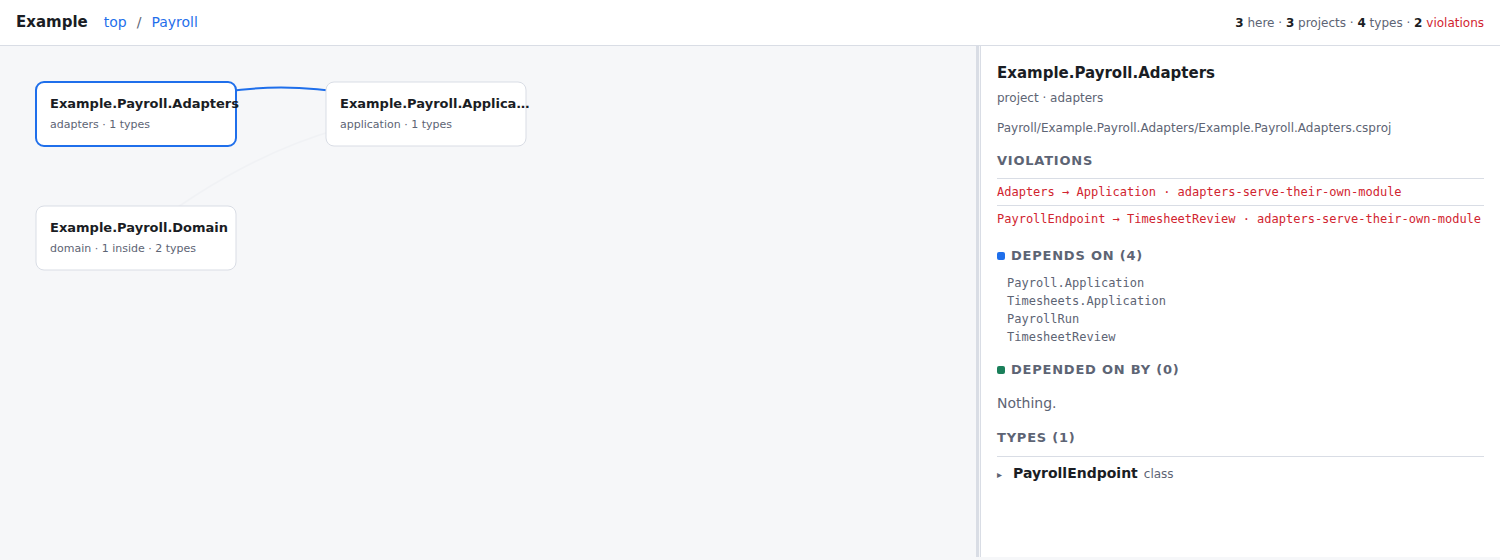
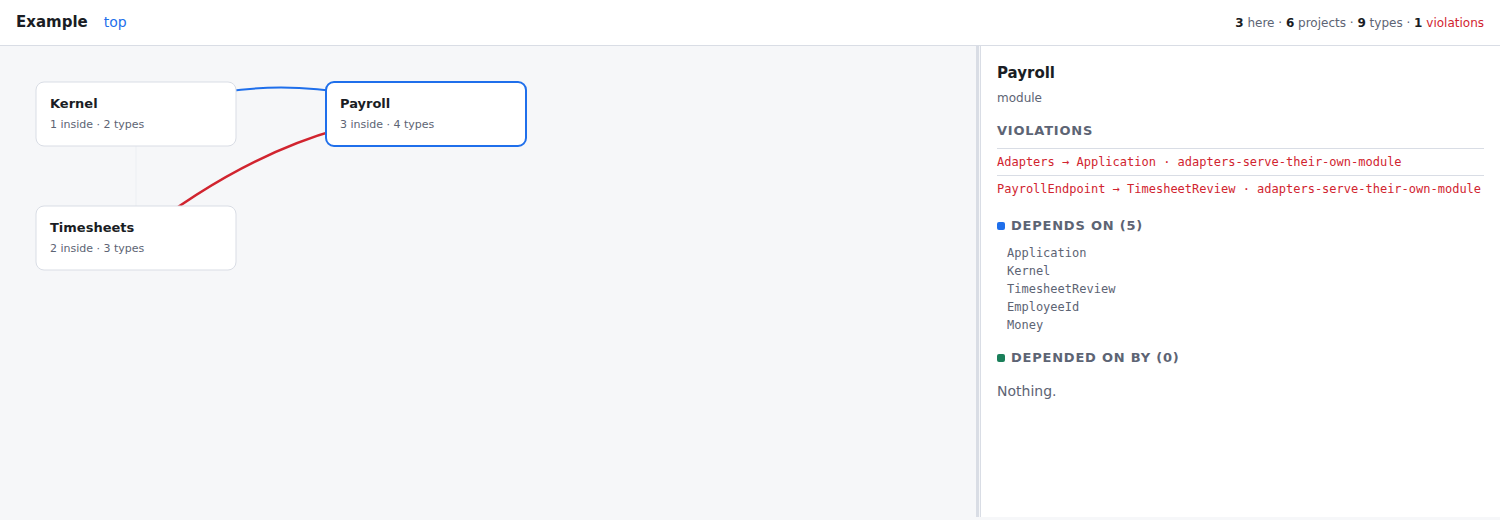
It read a week-old build and said nothing
Reported from a run where the map described code that no longer existed: a
class deleted days earlier was present, two classes added since were
missing, and a type was shown declaring members it no longer declares.

The cause was an accident treated as a choice. A repository holds the same
assembly once per configuration and again inside every project that
references it — on one repository, fifty-three copies of five assemblies.
Whichever a directory walk met first won, and Release from last week beat
Debug from an hour ago.

The newest copy of each is now read, and the run says how many older ones
were passed over. Same repository, unchanged: 438 types became 440,
inheritance 48 became 52, the deleted class is gone and the two new ones
are there — without anyone rebuilding anything by hand.

**Worse than the wrong metadata was the source shown beside it.** Line
numbers come from the PDB of a build; the text comes from disk now. A file
edited since that build puts a stale declaration next to a current body in
one panel, and nothing said which was which. Source is no longer shown for
such a file, and the run reports how many types that affects. No text is
better than contradictory text — the same principle already written down
for metrics, applied where it was being violated.

Also: a crossing counted twice. An adapter reaching into another module is
recorded as an edge between the projects and again between the two types
[…]

diff --git a/viewer/index.html b/viewer/index.html
@@ -365,7 +365,10 @@ function renderCrumbs() {
 function renderCounts(nodes, current) {
   const scope = current ? [current] : MODEL.nodes;
   const within = new Set(scope.flatMap(n => idsUnder(n)));
-  const bad = MODEL.edges.filter(e => e.violates && within.has(e.from));
+  // Crossings, not references. One adapter reaching into another module is
+  // recorded twice — once between the projects, once between the types that
+  // make the reference — and it is still one broken boundary.
+  const bad = crossings(MODEL.edges.filter(e => e.violates && within.has(e.from)));
 
   // Leaves are not projects: below the project level they are namespaces, and
   // calling thirty namespaces "projects" is simply wrong.
@@ -377,6 +380,25 @@ function renderCounts(nodes, current) {
     (projects ? `<b>${projects}</b> projects · ` : '') +
     `<b>${types}</b> types · ` +
     (bad.length ? `<span class="bad"><b>${bad.length}</b> violations</span>` : `<span>no violations</span>`);
+}
+
+// A violation is a pair of containers and the rule between them. Several
+// references may realise the same crossing; they are one thing to fix.
+function crossings(edges) {
+  const owner = new Map();
+  const index = node => {
+    for (const t of node.types || []) owner.set(t.id, node.id);
+    for (const c of node.children || []) index(c);
+  };
+  MODEL.nodes.forEach(index);
+
+  const seen = new Set();
+  for (const e of edges) {
+    const a = owner.get(e.from) || e.from;
+    const b = owner.get(e.to) || e.to;
+    seen.add(`${a}\u0000${b}\u0000${e.violates}`);
+  }
+  return [...seen];
 }
 
 function count(nodes, fits) {
@@ -403,8 +425,18 @@ function select(n) {
   if (n.project) html += `<div class="kind">${esc(n.project)}</div>`;
 
   if (bad.length) {
+    const grouped = new Map();
+    for (const e of bad) {
+      const key = `${e.violates}`;
+      if (!grouped.has(key)) grouped.set(key, []);
+      grouped.get(key).push(e);
+    }
     html += `<h2>Violations</h2>`;
-    for (const e of bad) html += `<div class="viol">${esc(short(e.from))} → ${esc(short(e.to))} · ${esc(e.violates)}</div>`;
+    for (const [rule, list] of grouped) {
+      for (const e of list) {
+        html += `<div class="viol">${esc(short(e.from))} → ${esc(short(e.to))} · ${esc(rule)}</div>`;
+      }
+    }
   }
 
   const into = [...new Map(

diff --git a/src/ArchViewer.Extract/AssemblyFacts.cs b/src/ArchViewer.Extract/AssemblyFacts.cs
@@ -30,15 +30,26 @@ public sealed class AssemblyFacts : IDisposable
     public IReadOnlyCollection<string> Known => _assemblies.Keys;
 
     /// <summary>
+    /// How many older copies of the wanted assemblies were passed over.
+    /// </summary>
+    public int PassedOver { get; init; }
+
+    /// <summary>
+    /// When the oldest assembly actually read was written. Source newer than
+    /// this describes code the metadata has never seen.
+    /// </summary>
+    public DateTime Built { get; init; }
+
+    /// <summary>
     /// Finds built assemblies under the repository and opens them for reading.
     /// </summary>
     public static AssemblyFacts Load(string root, IReadOnlyList<string> wanted)
     {
-        var binaries = FindBinaries(root, wanted, out var everything);
+        var binaries = FindBinaries(root, wanted, out var everything, out var passedOver);
 
         if (binaries.Count == 0)
         {
-            return new AssemblyFacts(root, null);
+            return new AssemblyFacts(root, null) { PassedOver = passedOver };
         }
 
         var runtime = Directory.EnumerateFiles(
@@ -49,7 +60,14 @@ public sealed class AssemblyFacts : IDisposable
         // which is often a package rather than a project of this repository.
         var resolver = new PathAssemblyResolver(everything.Concat(runtime));
         var context = new MetadataLoadContext(resolver);
-        var facts = new AssemblyFacts(root, context);
+        var facts = new AssemblyFacts(root, context)
+        {
+            PassedOver = passedOver,
+            Built = binaries.Values
+                .Select(path => File.GetLastWriteTimeUtc(path))
+                .DefaultIfEmpty(DateTime.MinValue)
+                .Min(),
+        };
 
         foreach (var (name, path) in binaries)
         {
@@ -161,7 +179,7 @@ public sealed class AssemblyFacts : IDisposable
             {
                 var location = source?.Locate(type);
                 var fragment = location is { } at && source is not null
-                    ? source.Fragment(at.File, at.First, at.Last, type.Name)
+                    ? source.Fragment(at.File, at.First, at.Last, type.Name, Built)
                     : null;
 
                 types.Add(new TypeNode
@@ -508,32 +526,62 @@ public sealed class AssemblyFacts : IDisposable
         return tick < 0 ? name : name[..tick];
     }
 
+    /// <summary>
+    /// Assemblies to read, one path per name.
+    /// A repository holds the same assembly many times over — one per
+    /// configuration, plus a copy in every project that references it — and
+    /// which one is walked first is an accident of the file system. The newest
+    /// is taken, and how many were passed over is reported, because silently
+    /// reading a week-old build and saying nothing is how a map comes to
+    /// disagree with the code it claims to describe.
+    /// </summary>
     private static Dictionary<string, string> FindBinaries(
         string root,
         IReadOnlyList<string> wanted,
-        out IReadOnlyList<string> everything)
+        out IReadOnlyList<string> everything,
+        out int copies)
     {
         var want = new HashSet<string>(wanted, StringComparer.Ordinal);
-        var found = new Dictionary<string, string>(StringComparer.Ordinal);
-        var all = new Dictionary<string, string>(StringComparer.Ordinal);
+        var newest = new Dictionary<string, (string Path, DateTime Written)>(StringComparer.Ordinal);
+        var all = new Dictionary<string, (string Path, DateTime Written)>(StringComparer.Ordinal);
+        var seen = 0;
 
         foreach (var dll in Directory.EnumerateFiles(root, "*.dll", SearchOption.AllDirectories))
         {
             var name = Path.GetFileNameWithoutExtension(dll);
 
-            if (!all.ContainsKey(name))
+            DateTime written;
+
+            try
             {
-                all[name] = dll;
+                written = File.GetLastWriteTimeUtc(dll);
+            }
+            catch (IOException)
+            {
+                continue;
             }
 
-            if (want.Contains(name) && !found.ContainsKey(name))
+            if (!all.TryGetValue(name, out var best) || written > best.Written)
             {
-                found[name] = dll;
+                all[name] = (dll, written);
+            }
+
+            if (!want.Contains(name))
+            {
+                continue;
+            }
+
+            seen++;
+
+            if (!newest.TryGetValue(name, out var current) || written > current.Written)
+            {
+                newest[name] = (dll, written);
             }
         }
 
-        everything = all.Values.ToList();
-        return found;
+        copies = seen - newest.Count;
+        everything = all.Values.Select(x => x.Path).ToList();
+        return newest.ToDictionary(pair => pair.Key, pair => pair.Value.Path, StringComparer.Ordinal);
     }
 
     /// <summary>Releases the reading context.</summary>
@@ -639,6 +687,7 @@ internal sealed class SourceIndex : IDisposable
         int first,
         int last,
         string typeName,
+        DateTime built,
         int limit = 400)
     {
         var path = Path.Combine(_root, relativeFile);
@@ -652,6 +701,16 @@ internal sealed class SourceIndex : IDisposable
 
         try
         {
+            // Lines come from the PDB of a build; the text comes from disk
+            // now. A file edited since that build describes something the
+            // metadata has never seen, and showing the two side by side puts
+            // a week-old declaration next to today's body. No text is better
+            // than contradictory text.
+            if (built != DateTime.MinValue && File.GetLastWriteTimeUtc(path) > built)
+            {
+                return null;
+            }
+
             lines = File.ReadAllLines(path);
         }
         catch (IOException)

diff --git a/src/ArchViewer.Extract/Program.cs b/src/ArchViewer.Extract/Program.cs
@@ -62,11 +62,16 @@ public static class Program
         File.WriteAllText(modelPath, json);
         File.WriteAllText(outPath, Page(json));
 
-        Report(model, projects.Count, facts.Known.Count, outPath);
+        Report(model, projects.Count, facts.Known.Count, outPath, facts);
         return 0;
     }
 
-    private static void Report(Model model, int projects, int assemblies, string outPath)
+    private static void Report(
+        Model model,
+        int projects,
+        int assemblies,
+        string outPath,
+        AssemblyFacts facts)
     {
         var violations = model.Edges.Count(e => e.Violates is not null);
         var types = Count(model.Nodes);
@@ -77,11 +82,38 @@ public static class Program
         Console.WriteLine($"edges      {model.Edges.Count}, {violations} violating");
         Console.WriteLine($"written    {outPath}");
 
+        if (facts.PassedOver > 0)
+        {
+            Console.WriteLine(
+                $"           {facts.PassedOver} older copies passed over; the newest of each was read");
+        }
+
+        var stale = Stale(model.Nodes, facts.Built);
+
+        if (stale > 0)
+        {
+            Console.WriteLine();
+            Console.WriteLine(
+                $"{stale} types have no source shown: their files changed after the build was made.");
+            Console.WriteLine("Rebuild the repository so metadata and text describe the same code.");
+        }
+
         if (assemblies == 0)
         {
             Console.WriteLine();
             Console.WriteLine("No assemblies found: build the repository to get types and source lines.");
         }
+    }
+
+    private static int Stale(IReadOnlyList<Node> nodes, DateTime built)
+    {
+        if (built == DateTime.MinValue)
+        {
+            return 0;
+        }
+
+        return nodes.Sum(n =>
+            n.Types.Count(t => t.File is not null && t.Source is null) + Stale(n.Children, built));
     }
 
     private static int Count(IReadOnlyList<Node> nodes) =>

diff --git a/docs/spec.md b/docs/spec.md
@@ -116,6 +116,12 @@ Rules of the format:
   Policy rules may match on it.
 - **`violates` carries the rule's id**, not a boolean. A red arrow that
   cannot say which rule it broke is not actionable.
+- **The same crossing may be recorded more than once.** An adapter reaching
+  into another module appears as an edge between the projects and again as an
+  edge between the two types that make the reference. Both are true; they are
+  one boundary broken. Counts shown to the reader are crossings — a pair of
+  containers and the rule between them — while the panel lists every reference
+  that realises it, because that is what gets fixed.
 - **`line` is optional.** Without PDBs there is no jump to source; everything
   else still works.
 - **An edge names any container, not only a childless one.** An edge between
@@ -200,6 +206,17 @@ edges at all: it names them inside a method. So a rule of the form "nothing
 but the composition root may reference the implementations" cannot be checked
 by this model, and a repository whose wiring lives in `AddScoped` calls will
 look less connected than it is.
+
+**The newest copy of an assembly is read, and older ones are counted aloud.**
+A repository holds the same assembly once per configuration and again in every
+project that references it. Which copy a directory walk meets first is an
+accident, and reading a week-old build in silence is how a map comes to
+describe code that no longer exists.
+
+**Source is not shown for a file edited since the build.** Line numbers come
+from the PDB of a build; the text comes from disk now. Where they disagree,
+the panel would put a stale declaration next to a current body. No text is
+better than contradictory text, and the run says how many types are affected.
 
 **Only portable PDBs are read.** A repository built on .NET Framework writes
 Windows PDBs, and no source appears at all — the graph, the types and their

diff --git a/README.md b/README.md
@@ -122,8 +122,10 @@ dotnet src/ArchViewer.Extract/bin/Debug/net10.0/archview.dll examples/solution -
 ```
 
 Six projects, eight references, one nested namespace in each domain, and
-exactly one red arrow — the adapter that reaches into another module's
-application layer:
+exactly one crossing drawn red — the adapter that reaches into another
+module's application layer. It is recorded twice, once between the projects
+and once between the types, because both are true; it is one boundary
+broken, and counted as one:
 
 ![The violation, drawn red and named](docs/screenshot-violation.png)
 
